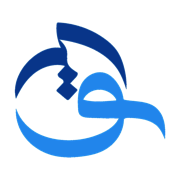
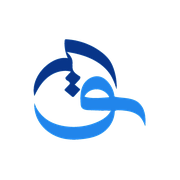
أيقونة تطبيق بشعار ق (خلفية بيضاء + نسخة maskable) للتثبيت على الشاشة الرئيسية

Changed region(s): [[0.0556, 0.1111, 0.9444, 0.8889]]

diff --git a/app/manifest.ts b/app/manifest.ts
@@ -16,7 +16,7 @@ export default function manifest(): MetadataRoute.Manifest {
     icons: [
       { src: "/icon-192.png", sizes: "192x192", type: "image/png", purpose: "any" },
       { src: "/icon-512.png", sizes: "512x512", type: "image/png", purpose: "any" },
-      { src: "/icon-512.png", sizes: "512x512", type: "image/png", purpose: "maskable" },
+      { src: "/icon-maskable-512.png", sizes: "512x512", type: "image/png", purpose: "maskable" },
     ],
   };
 }
